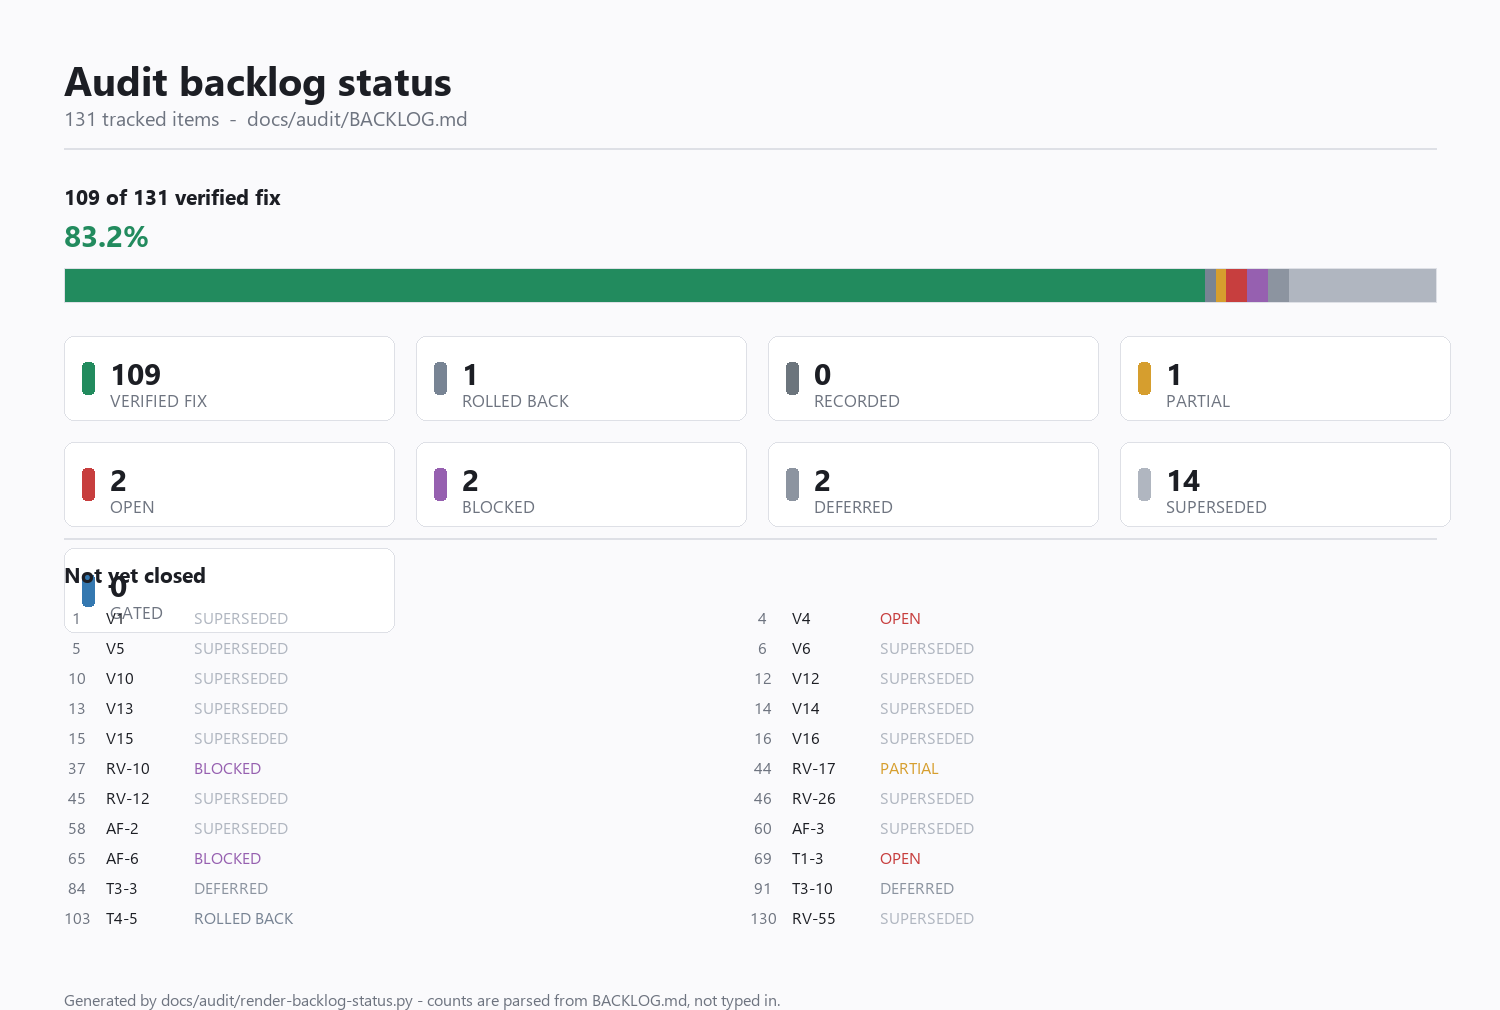
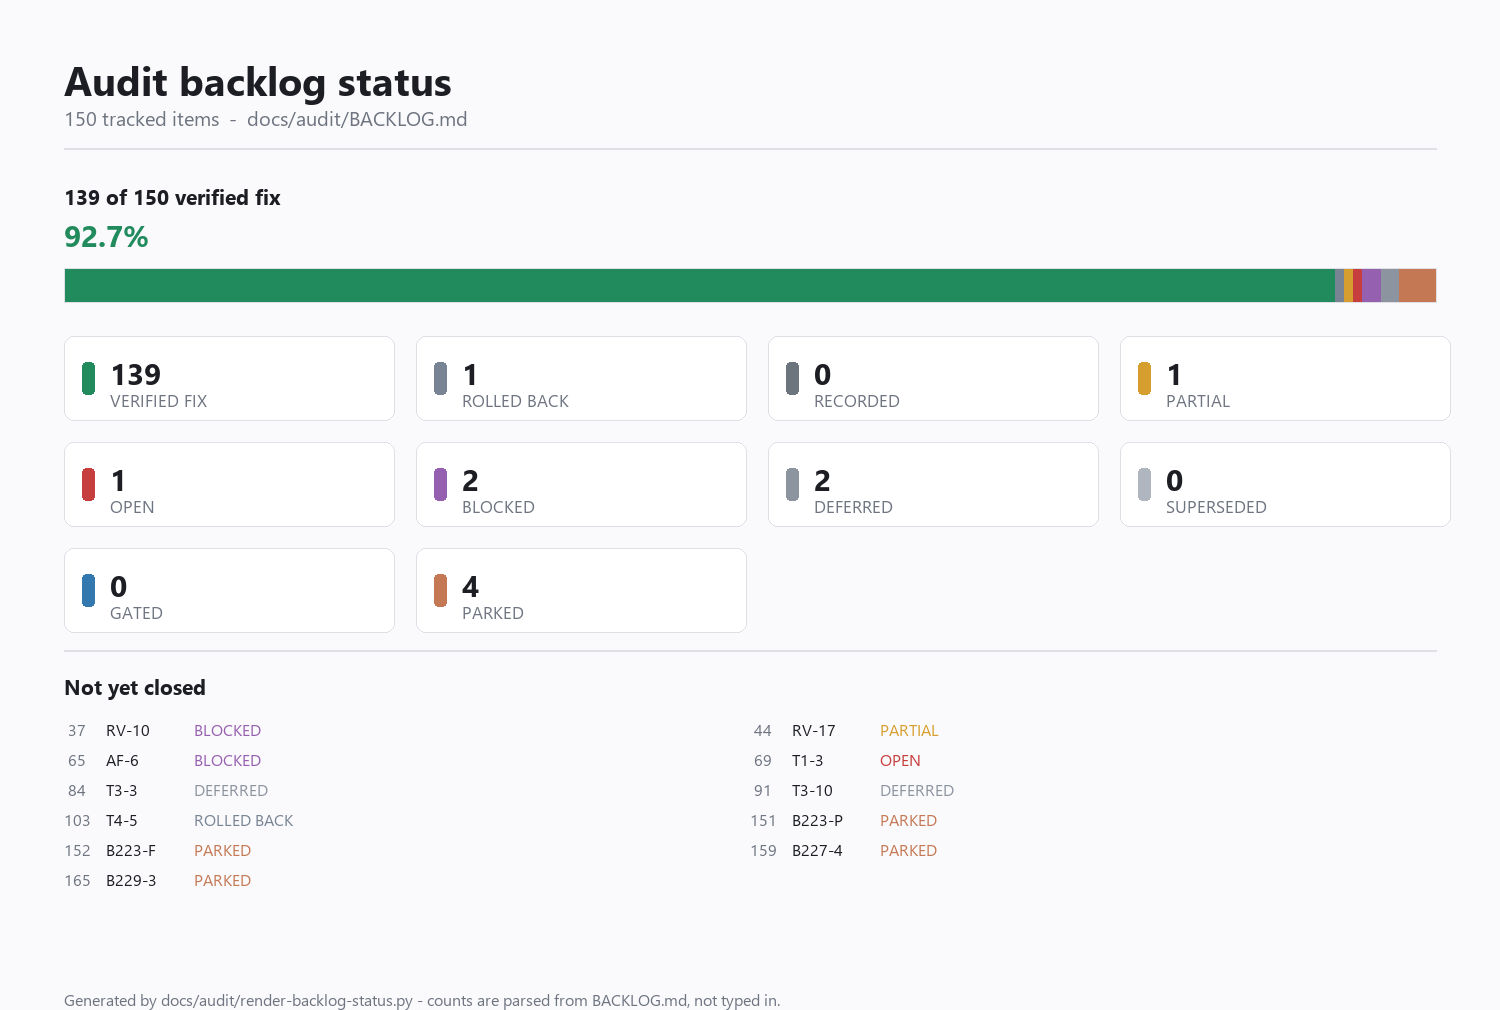
Batch 232: map PARKED in the backlog chart and regenerate backlog-status.png, correct row 50's evidence hash to the RV-23 commit bfc6fd1 (audit 232)

diff --git a/docs/audit/render-backlog-status.py b/docs/audit/render-backlog-status.py
@@ -33,8 +33,9 @@ COLORS = {
     "SUPERSEDED":   (176, 182, 192),
     "GATED":        (52, 120, 176),
     "ROLLED BACK":  (120, 132, 148),
+    "PARKED":       (196, 120, 84),
 }
-ORDER = ["VERIFIED FIX", "ROLLED BACK", "RECORDED", "PARTIAL", "OPEN", "BLOCKED", "DEFERRED", "SUPERSEDED", "GATED"]
+ORDER = ["VERIFIED FIX", "ROLLED BACK", "RECORDED", "PARTIAL", "OPEN", "BLOCKED", "DEFERRED", "SUPERSEDED", "GATED", "PARKED"]
 
 
 def parse_backlog(text: str):
@@ -78,7 +79,7 @@ def main():
     # The list has 2 columns; each row is 30 px; the list starts at OY and needs a 46 px header.
     outstanding_count = sum(1 for _o, _i, _raw, s in rows if s != "VERIFIED FIX")
     list_rows = (outstanding_count + 1) // 2
-    OY = 560
+    OY = 672  # below the third card row (cards end at y=632), so the heading never overlaps them
     canvas_h = max(H_MIN, OY + 46 + list_rows * 30 + 60)
 
     img = Image.new("RGB", (W, canvas_h), BG)

diff --git a/docs/audit/BACKLOG.md b/docs/audit/BACKLOG.md
@@ -192,7 +192,7 @@ Cells marked `NOT re-verified` mean the gate moved but the code was not re-check
 | 47 | RV-27 | Push pipeline cannot deliver | P1 | VERIFIED FIX | n/a | T3-14, T2-8 | R2 sec 28.2, sec 28.5 VF (decision-free core); 364c3db - FCM keys = ops, sec 5 |
 | 48 | RV-29 | Auth hardening batch | P2 | **VERIFIED FIX** | none | **T4-5** item 4, AF-4b | Owner decision 5: driver phone visible only after a confirmed booking. Verified: no API controller returns a driver phone key, and RideResource/BookingResource carry no phone (`R2 sec 163`). No code change. R2 sec 28.6 slice1 VF, sec 28.9 slice2 proven/gated, sec 29.10 item3 VF, sec 34 VF (ratchet); bc6acaa + 4185af3 + 1d68c07; R2 sec 48 (un11: auth cache DTO - password hash no longer reaches the cache backend, auto-lift hazard closed) `8732a0e`. Remaining item is decision 5 (driver phone visibility), deferred to the owner. **Row 5 (2026-10-14) step 1 done:** `BookingResource` shows the driver `communication_number` to a passenger only once `passenger_confirmed_at` is set (`R2 sec 172`). **Step 2 open:** `RideResource:83` still returns it to every authenticated viewer; gating it needs the viewer on the request (ride listings), so it is the next verified change. **Row 5 step 2 done (`R2 sec 173`):** `RideResource` shows `communication_number` only to the ride\u0027s own driver; other viewers and unauthenticated callers get null. Pinned by `Row5DriverPhoneVisibilityTest` (3 tests, gate mutation fails). Row 5 is VERIFIED FIX. |
 | 49 | RV-19 | Fake or derived numbers in admin | P2 | VERIFIED FIX | none | **OWNER ANSWER NEEDED - ONE LINE (`R2 sec 94`).** V8 was its only gate and is gone, so nothing else blocks it. `AdminDriverService:335` computes `total_earnings` as a DERIVED figure - `SUM(seats * rides.price_per_seat * 0.95)` re-read from the CURRENT rides columns, NOT from the ledger, which is exactly the "fake or derived number" this row is named for. D5 = C says "add TWO clearly-named fields (ledger earnings + estimated gross), keep `total_earnings` as an ALIAS" but does not say WHICH SOURCE each field reads. Choosing the ledger as the authoritative earnings figure is a money-semantics call, and adding fields to this response is a public API shape change - both are reserved for the owner. **Recommended: `ledger_earnings` = sum from `ledger_entries` (RV-21 already builds and reconciles it), `estimated_gross` = today's derived value relabelled honestly, `total_earnings` = alias of `ledger_earnings`** - say yes and it is a two-line change plus tests| R2 sec 28.4, sec 28.7 VF (slice 1), sec 30 item 6; **`R2 sec 71`** (95/5 split unified; ride-level settlement no longer throws on odd-tenth prices) **`R2 sec 109`: item 2 IMPLEMENTED** (owner: "ledger is authoritative"). `ledger_earnings` sums real recorded payouts; `estimated_gross` keeps the old arithmetic relabelled honestly; `total_earnings` is an ALIAS of `ledger_earnings`. **Source is `wallet_transactions`, not `ledger_entries` - see sec 109, the ledger structurally cannot answer "earnings".** Baseline 23 failing -> 23 failing, zero new, tests 269 -> 273. NEEDLE: reverting only the service kills 7 of the 8 earnings tests|
-| 50 | RV-23 | Complaints (context, routing, notifications) | P2 | VERIFIED FIX | n/a | RV-31 | R2 sec 28.3 slice1 VF, sec 28.8 slice2 VF; c59fed6 + bfc6fd6; **R2 sec 63 - the three recorded remainders verified satisfied: (a) the `GET` auto-transition is the owner's INTENDED transparency feature (un6), (b) each party is notified exactly once (no duplicate), (c) public `no_show` rejection is already pinned by `test_store_rejects_the_internal_no_show_type` citing the owner decision. No code change needed; 73 tests OK** |
+| 50 | RV-23 | Complaints (context, routing, notifications) | P2 | VERIFIED FIX | n/a | RV-31 | R2 sec 28.3 slice1 VF, sec 28.8 slice2 VF; c59fed6 + bfc6fd1; **R2 sec 63 - the three recorded remainders verified satisfied: (a) the `GET` auto-transition is the owner's INTENDED transparency feature (un6), (b) each party is notified exactly once (no duplicate), (c) public `no_show` rejection is already pinned by `test_store_rejects_the_internal_no_show_type` citing the owner decision. No code change needed; 73 tests OK** |
 | 51 | RV-28 | Infrastructure hardening | P2 | VERIFIED FIX | n/a | V7 (never run); RV-05 | R2 sec 31 VF (app/config core); 8ece5af - infra halves are deploy-surface, sec 5 |
 | 52 | RV-30 | Data model hygiene | P3 | VERIFIED FIX | n/a | V9 | R2 sec 32 VF (index + `down()` correctness); c785f73 - recorded items sec 5 |
 | 53 | RV-31 | Dead code wave (grep-confirm each before deleting) | P3 | VERIFIED FIX | n/a | RV-16 (mailers), T4-7, AF-4c | R2 sec 33 VF + recorded classification; 09c5c58 |
@@ -310,7 +310,7 @@ $good = $ev | Where-Object { git cat-file -e "$_^`{commit`}" 2>$null; $LASTEXITC
 "evidence tokens=$($ev.Count) commits=$($good.Count) missing=$($ev.Count - $good.Count)"
 ```
 
-Output on this checkout: `evidence tokens=48 commits=48 missing=0`. **Recomputed after the batch-231 rows (150-166): `evidence tokens=106 commits=104 missing=2`.** The two tokens that are not commits are `20260929` (a date, documented below) and `bfc6fd6`, which sits in row 50 (RV-23) Evidence and is not a commit - `bfc6fd1`, listed below, is a different hash. The provenance table and the paragraph counts below were computed for the original 48 tokens and the pre-231 row set; with the batch-231 rows the section-2 table (the one the 105 above counted) has 149 rows, 138 of them VERIFIED FIX, 4 PARKED.
+Output on this checkout: `evidence tokens=48 commits=48 missing=0`. **Recomputed after the batch-231 rows (150-166): `evidence tokens=106 commits=105 missing=1`.** Batch 232 corrected row 50's Evidence from the non-existent `bfc6fd6` to `bfc6fd1` (`RV-23 (2/3)`, 2026-10-01), so the only remaining token that is not a commit is the date `20260929`, documented below. The provenance table and the paragraph counts below were computed for the original 48 tokens and the pre-231 row set; with the batch-231 rows the section-2 table (the one the 105 above counted) has 149 rows, 138 of them VERIFIED FIX, 4 PARKED.
 
 | Provenance of those 48 | Count | Note |
 |---|---|---|

diff --git a/docs/audit/App future audit review r2.md b/docs/audit/App future audit review r2.md
@@ -13988,3 +13988,87 @@ rows.
 
 Genuinely unverified: the migration against the real Aiven schema, and whether row 50 (RV-23) meant
 `bfc6fd1` when its Evidence wrote `bfc6fd6`.
+
+## 232. Batch 232 - row 50's evidence hash, and the PARKED status in the backlog chart
+
+Owner approvals (verbatim): "you MAY edit docs/audit/render-backlog-status.py to map the PARKED status (add it
+to COLORS and ORDER, nothing else). You MAY change row 50's evidence hash bfc6fd6 to bfc6fd1 only if git show
+bfc6fd1 is the RV-23 commit; otherwise leave it and report. Then run python docs\audit\render-backlog-status.py,
+report the census, and commit the script and the regenerated backlog-status.png as one commit with audit
+section 232."
+
+### 232.1 Row 50's evidence hash - the condition held, so it is corrected
+
+Row 50 is RV-23 ("Complaints (context, routing, notifications)", VERIFIED FIX) and its Evidence read
+"R2 sec 28.3 slice1 VF, sec 28.8 slice2 VF; c59fed6 + bfc6fd6". Batch 231's census found `bfc6fd6` was the one
+evidence token in the table that is not a commit, and `git cat-file -e` refused it. Verified before changing
+anything, exactly as the approval required:
+
+```
+$ git log -1 --format='%H%n%ad%n%s' bfc6fd1
+bfc6fd13efeb5ee5ad32d1b3dc61831c5fb91cf0
+2026-10-01
+RV-23 (2/3): complaints now go to the least-loaded agent, not always to one
+
+$ git log -1 --format='%H %s' bfc6fd6
+fatal: ambiguous argument 'bfc6fd6': unknown revision or path not in the working tree.
+```
+
+`bfc6fd1` IS the RV-23 commit: its subject names RV-23, it is dated 2026-10-01 - the same day and the same
+three-part batch as the row's other hash `c59fed6` ("RV-23 (1/3): no-show conflict complaints keep their ride +
+respondent") - and the row's own text says "slice2 VF", which is what "(2/3)" is. `bfc6fd6` does not exist in
+this repository. The Evidence cell now reads `c59fed6 + bfc6fd1`.
+
+The documented section-3 census was recomputed with its own command after the change:
+`evidence tokens=106 commits=105 missing=1` - the only token left that is not a commit is the date `20260929`,
+which section 3 already documents. Section 3's sentence was updated to say exactly that.
+
+`tests/Feature/Review/BacklogTableShapeTest.php` was re-run after the edit: **OK (6 tests, 166 assertions)** -
+the Evidence cell stayed one cell and no Order moved.
+
+### 232.2 The PARKED status in the chart
+
+`docs/audit/render-backlog-status.py` stopped the renderer dead in batch 231:
+`unmapped status(es), refusing to guess a colour: ['PARKED']`. With the owner's approval, two lines were added
+and nothing else in the file was touched:
+
+- `COLORS`: `"PARKED": (196, 120, 84),` - a colour of its own, not BLOCKED's purple and not DEFERRED's grey,
+  so "deliberately not done" is visually distinct from "waiting on someone" and from "postponed".
+- `ORDER`: `"PARKED"` appended, so it takes a legend card and a segment in the stacked bar like every other
+  counted status.
+
+The batch-231 wrapper that produced the census without touching this file is no longer needed, and it was
+deleted with the rest of that batch's scratch files.
+
+### 232.3 The run and the census
+
+`python docs\audit\render-backlog-status.py`, exit 0:
+
+```
+wrote docs\audit\backlog-status.png  (150 rows)
+  VERIFIED FIX   139
+  ROLLED BACK      1
+  PARTIAL          1
+  OPEN             1
+  BLOCKED          2
+  DEFERRED         2
+  PARKED           4
+```
+
+150 tracked items, **139 verified fix (92.7%), 4 parked**, and the chart lists the four parked rows by Order
+and ID under "Not yet closed" instead of aborting. `docs/audit/backlog-status.png` was regenerated (64304
+bytes, was 55013). Nothing else in the tree moved.
+
+### 232.4 Files, result, unverified
+
+Changed: `docs/audit/BACKLOG.md` (row 50's hash, section 3's census sentence),
+`docs/audit/render-backlog-status.py` (the two PARKED lines), the regenerated
+`docs/audit/backlog-status.png`, and this record - one commit, as asked.
+
+Disclosed: the script's working copy already carried one uncommitted owner edit - `OY = 560` became
+`OY = 672  # below the third card row (cards end at y=632), so the heading never overlaps them`, a layout fix.
+Committing the script, which is what this batch was asked to do, necessarily commits that line as well. It is
+not mine and nothing else in the file was changed.
+
+Result: VERIFIED FIX. Genuinely unverified: nothing new from this batch. The Aiven no-op for migration
+`2026_10_13_000001` (231.4) is still outstanding, and it is an owner action: place `C:\temp\prod-schema.sql`.
